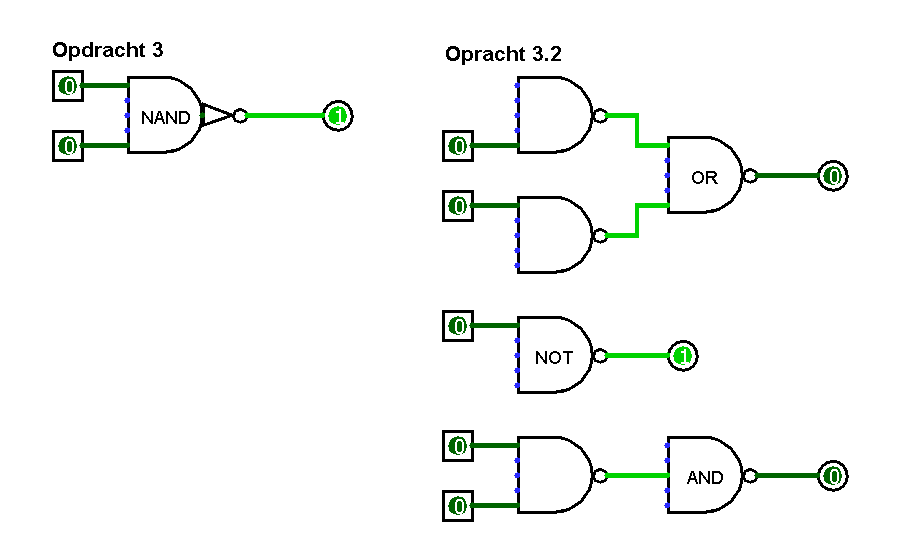
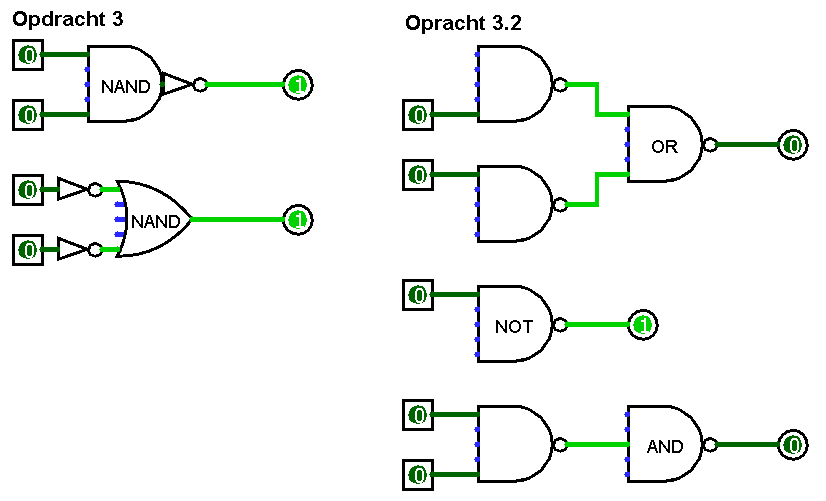
Changes Verslag 1

diff --git a/CA_PROJECT_1/Verslag.html b/CA_PROJECT_1/Verslag.html
@@ -14,6 +14,7 @@
         li {margin-bottom:5px;}
         note {font-size:14px;color: #464646;}
         span {text-wrap:nowrap;}
+        summary {margin:10px 0px;cursor:pointer;}
     </style>
 </head>
 <body>
@@ -120,47 +121,105 @@
     </p>
 
     <h2>NAND gates</h2>
+
+    <p>
+        Uit De Morgan volgt dat er twee manieren zijn om een NAND gate op te bouwen. Je kunt de NOT van een AND nemen, of de inverse van je inputs in een OR steken. We hebben voor opdracht 3 bijde methodes gebruikt. In opdracht 3.2 hebben we de ingebouwde NAND gate van logisim gebruikt.
+    </p>
+
     <div style="text-align:center;">
         <img src="nand_gates.png" alt="NAND gates"/>
     </div>
 
     <h2>Implement truth table</h2>
     <p>
-        Onze werkmethode hier was om voor zowel X als Y een booleaanse vergelijking op te stellen die voor elk bepaalde of X (of Y) aan of uit moest zijn.
+        Onze werkmethode hier was om voor zowel X als Y een booleaanse vergelijking op te stellen die voor elk bepaalde of X (of Y) aan of uit moest zijn. Vervolgens vereenvoudigden we telkens de booleaanse expressie.
     </p>
-    <ul>
-        <li>
-            <b>X:</b> (<u>A</u> &middot; <u>B</u> &middot; <u>C</u>) + (<u>A</u> &middot; <u>B</u> &middot; C) + (A &middot; <u>B</u> &middot; <u>C</u>)
-        </li>
-        <li>
-            <b>Y:</b> (<u>A</u> &middot; <u>B</u> &middot; <u>C</u>) + (<u>A</u> &middot; <u>B</u> &middot; C) + (<u>A</u> &middot; B &middot; <u>C</u>) + (A &middot; <u>B</u> &middot; <u>C</u>)
-        </li>
-    </ul>
+
+    <b>X:</b> (<u>A</u> &middot; <u>B</u> &middot; <u>C</u>) + (<u>A</u> &middot; <u>B</u> &middot; C) + (A &middot; <u>B</u> &middot; <u>C</u>)
+    <details>
+        <summary>= (<u>A</u> &middot; <u>B</u>) + (<u>B</u> &middot; <u>C</u>)</summary>
+
+        <ul>
+            <li>
+                (<u>A</u> &middot; <u>B</u> &middot; <u>C</u>) + (<u>A</u> &middot; <u>B</u> &middot; C) + (A &middot; <u>B</u> &middot; <u>C</u>)
+            </li>
+            <li>
+                = (<u>A</u> &middot; <u>B</u>) &middot; (<u>C</u> + C) + (A &middot; <u>B</u> &middot; <u>C</u>)<br>
+                <note>(Distributive law)</note>
+            </li>
+            <li>
+                = (<u>A</u> &middot; <u>B</u>) &middot; (1) + (A &middot; <u>B</u> &middot; <u>C</u>)<br>
+                <note>(Complement law)</note>
+            </li>
+            <li>
+                = (<u>A</u> &middot; <u>B</u>) + (A &middot; <u>B</u> &middot; <u>C</u>)<br>
+                <note>(Identity law)</note>
+            </li>
+            <li>
+                = <u>B</u> &middot; (<u>A</u> + A &middot; <u>C</u>)<br>
+                <note>(Distributive law)</note>
+            </li>
+            <li>
+                = <u>B</u> &middot; (<u>A</u> + <u>C</u>)<br>
+                <note>(Absorption law)</note>
+            </li>
+            <li>
+                = (<u>A</u> &middot; <u>B</u>) + (<u>B</u> &middot; <u>C</u>)<br>
+                <note>(Distribution)</note>
+            </li>
+        </ul>
+    </details>
+    
+    <b>Y:</b> (<u>A</u> &middot; <u>B</u> &middot; <u>C</u>) + (<u>A</u> &middot; <u>B</u> &middot; C) + (<u>A</u> &middot; B &middot; <u>C</u>) + (A &middot; <u>B</u> &middot; <u>C</u>)
+    <details>
+        <summary>= (<u>A</u> &middot; <u>C</u>) + (<u>A</u> &middot; <u>B</u>) + (<u>B</u> &middot; <u>C</u>)</summary>
+        <ul>
+            <li>
+                <b>Y:</b> (<u>A</u> &middot; <u>B</u> &middot; <u>C</u>) + (<u>A</u> &middot; <u>B</u> &middot; C) + (<u>A</u> &middot; B &middot; <u>C</u>) + (A &middot; <u>B</u> &middot; <u>C</u>)
+            </li>
+            <li>
+                = (<u>A</u> &middot; <u>B</u>) &middot; (<u>C</u> + C) + (<u>A</u> &middot; B &middot; <u>C</u>) + (A &middot; <u>B</u> &middot; <u>C</u>)<br>
+                <note>(Distributive law)</note>
+            </li>
+            <li>
+                = (<u>A</u> &middot; <u>B</u>) &middot; (1) + (<u>A</u> &middot; B &middot; <u>C</u>) + (A &middot; <u>B</u> &middot; <u>C</u>)<br>
+                <note>(Complement law)</note>
+            </li>
+            <li>
+                = (<u>A</u> &middot; <u>B</u>) + (<u>A</u> &middot; B &middot; <u>C</u>) + (A &middot; <u>B</u> &middot; <u>C</u>)<br>
+                <note>(Identity law)</note>
+            </li>
+            <li>
+                = (<u>A</u>) &middot; (B &middot; <u>C</u> + <u>B</u>) + (A &middot; <u>B</u> &middot; <u>C</u>)<br>
+                <note>(Distributive law)</note>
+            </li>
+            <li>
+                = (<u>A</u>) &middot; (<u>C</u> + <u>B</u>) + (A &middot; <u>B</u> &middot; <u>C</u>)<br>
+                <note>(Absorption law)</note>
+            </li>
+            <li>
+                = (<u>A</u> &middot; <u>C</u>) + (<u>A</u> &middot; <u>B</u>) + (A &middot; <u>B</u> &middot; <u>C</u>)<br>
+                <note>(Distribution)</note>
+            </li>
+            <li>
+                = (<u>A</u> &middot; <u>C</u>) + (<u>B</u>) &middot; (<u>A</u> + A &middot; <u>C</u>)<br>
+                <note>(Distributive law)</note>
+            </li>
+            <li>
+                = (<u>A</u> &middot; <u>C</u>) + (<u>B</u>) &middot; (<u>A</u> &middot; <u>C</u>)<br>
+                <note>(Absorption law)</note>
+            </li>
+            <li>
+                = (<u>A</u> &middot; <u>C</u>) + (<u>A</u> &middot; <u>B</u>) + (<u>B</u> &middot; <u>C</u>)<br>
+                <note>(Distributive law)</note>
+            </li>
+        </ul>
+    </details>
+
     <p>
-        Dit konden we dan verder vereenvoudigen:
+        We zien dan dat we voor bijde expressies eenzelfde (<u>A</u> &middot; <u>B</u>) en (<u>B</u> &middot; <u>C</u>) bekomen. Dan is er ook nog een overige (<u>A</u> &middot; <u>C</u>).
     </p>
-    <ul>
-        <li>
-            = (<u>A</u> &middot; <u>B</u>) &middot; (<u>C</u> + C) + (A &middot; <u>B</u> &middot; <u>C</u>)<br>
-            <note>(Distributive law)</note>
-        </li>
-        <li>
-            = (<u>A</u> &middot; <u>B</u>) &middot; (1) + (A &middot; <u>B</u> &middot; <u>C</u>)<br>
-            <note>(Complement law)</note>
-        </li>
-        <li>
-            = (<u>A</u> &middot; <u>B</u>) + (A &middot; <u>B</u> &middot; <u>C</u>)<br>
-            <note>(Identity law)</note>
-        </li>
-        <li>
-            = <u>B</u> &middot; (<u>A</u> + A &middot; <u>C</u>)<br>
-            <note>(Distributive law)</note>
-        </li>
-        <li>
-            = <u>B</u> &middot; (<u>A</u> + <u>C</u>)<br>
-            <note>(Absorption law)</note>
-        </li>
-    </ul>
+
     <div style="text-align:center;">
         <img src="opdracht_4.png" alt="Opdracht 4"/>
     </div>
